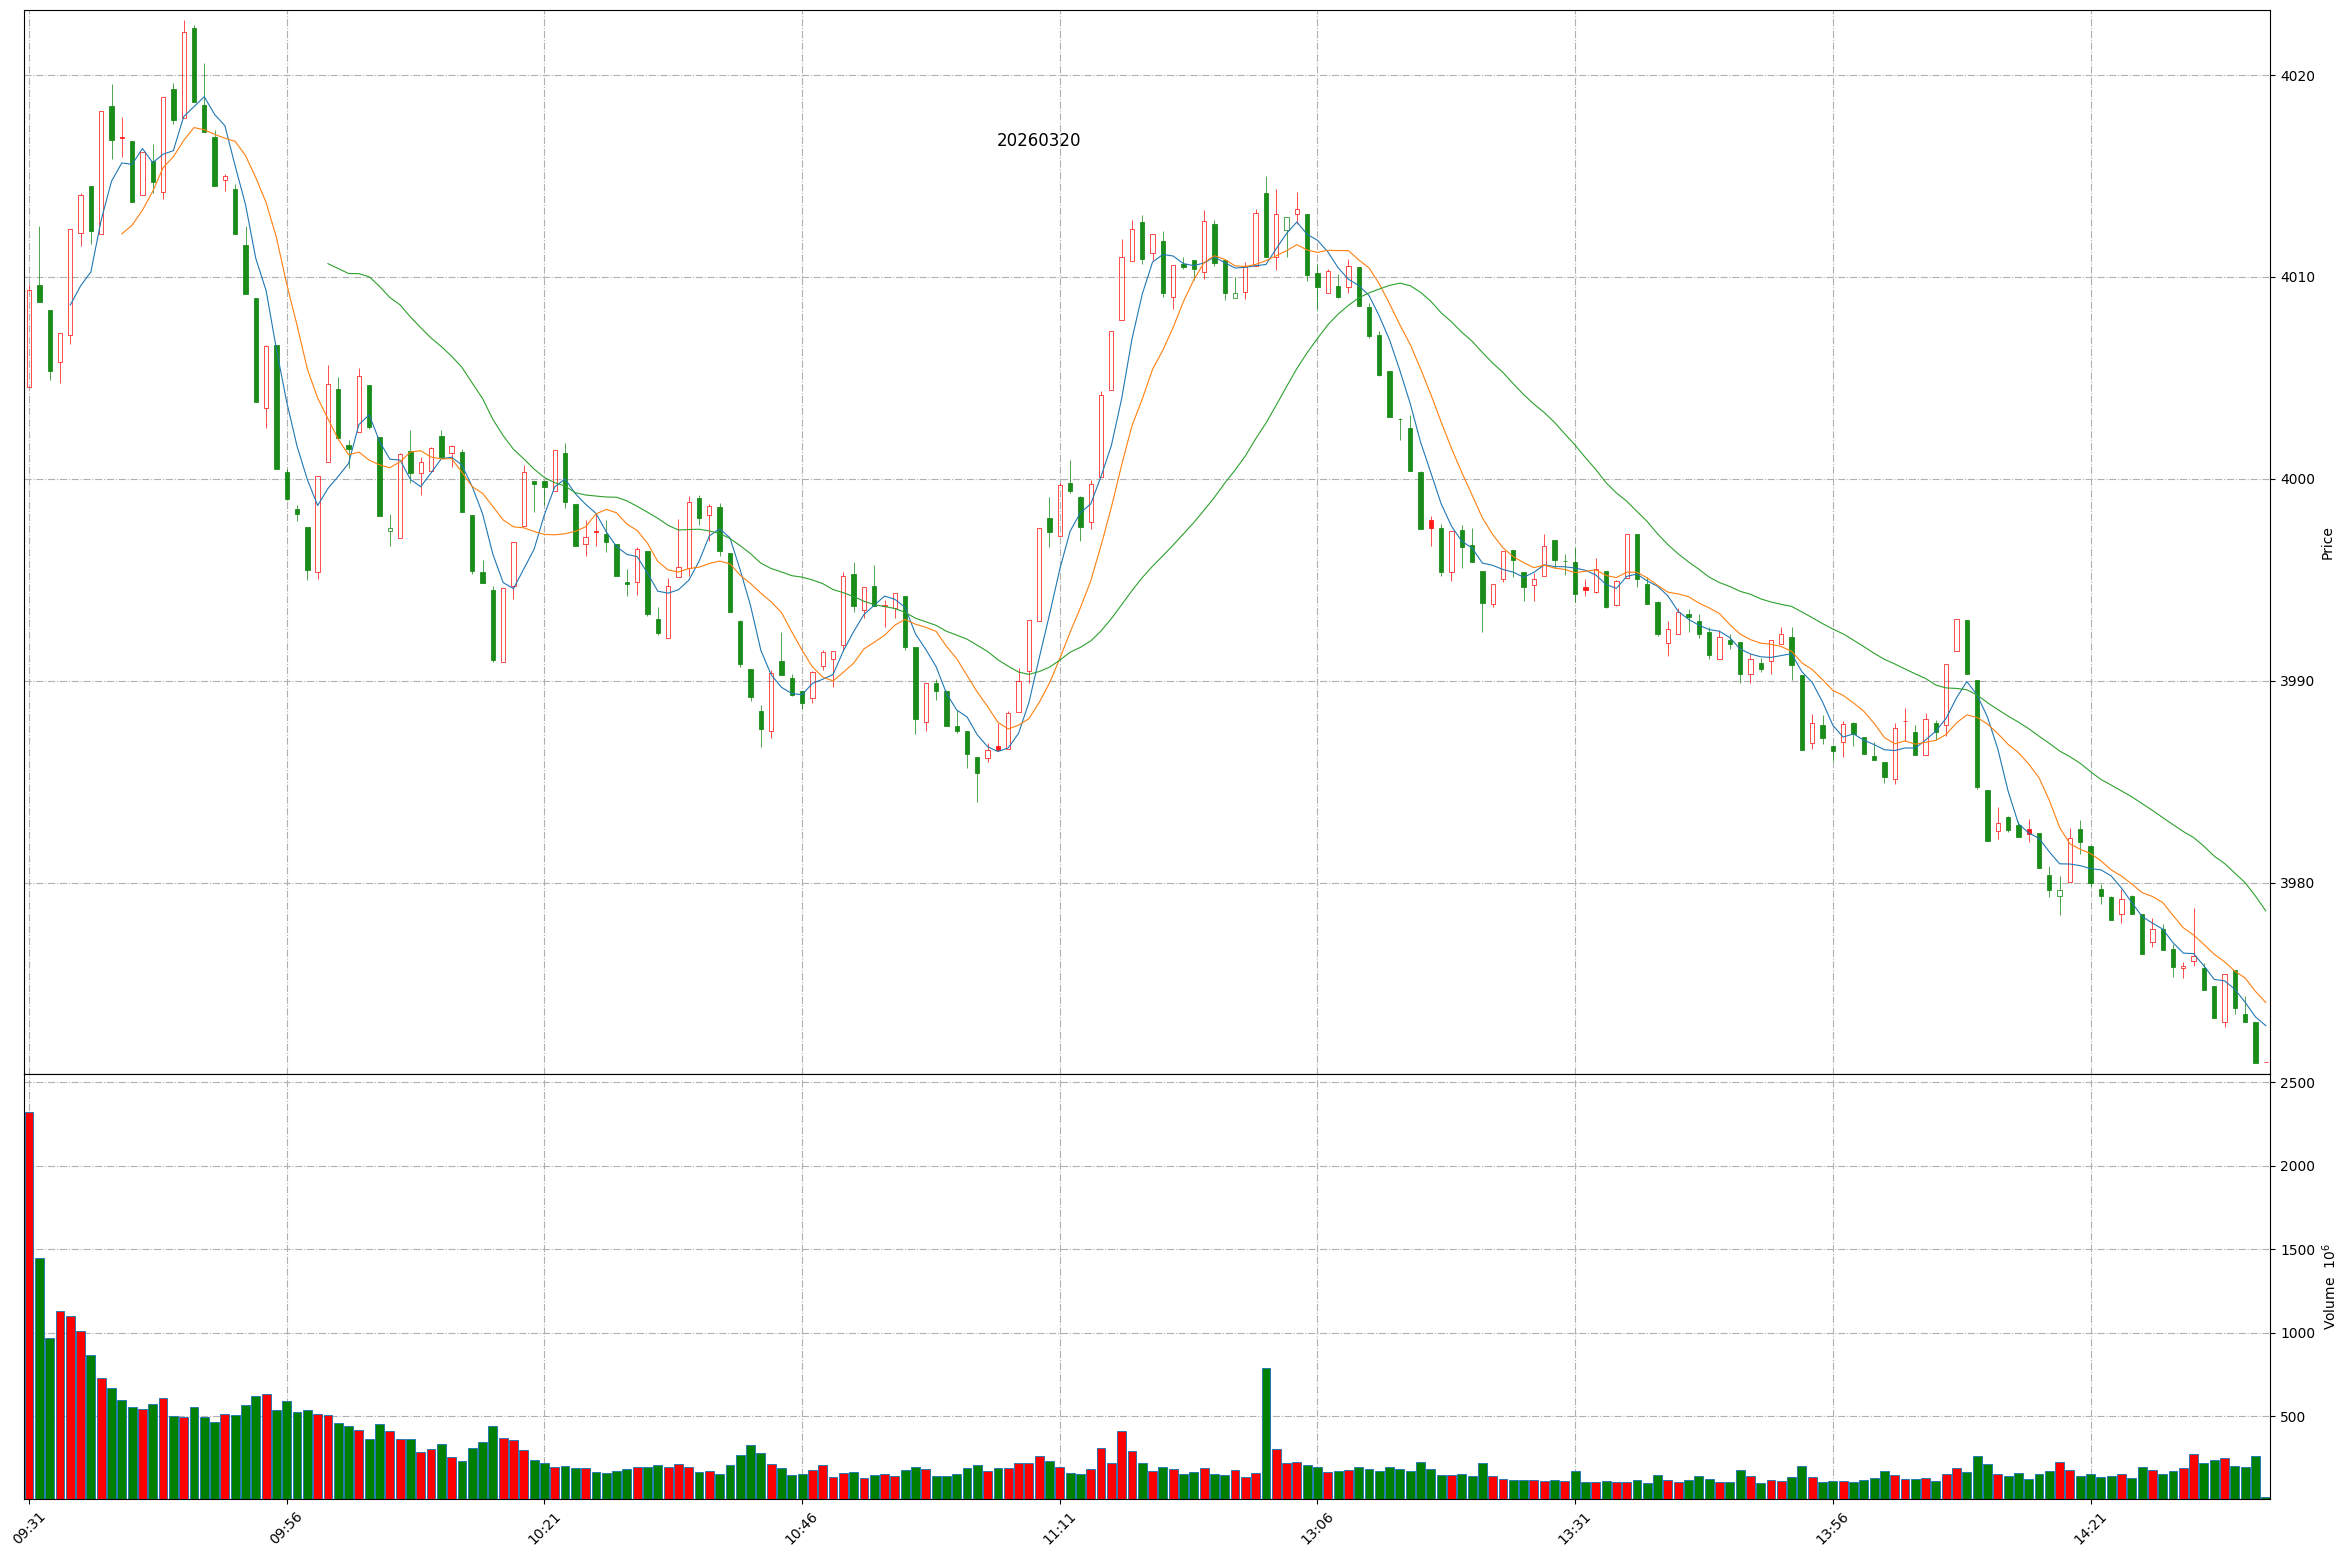
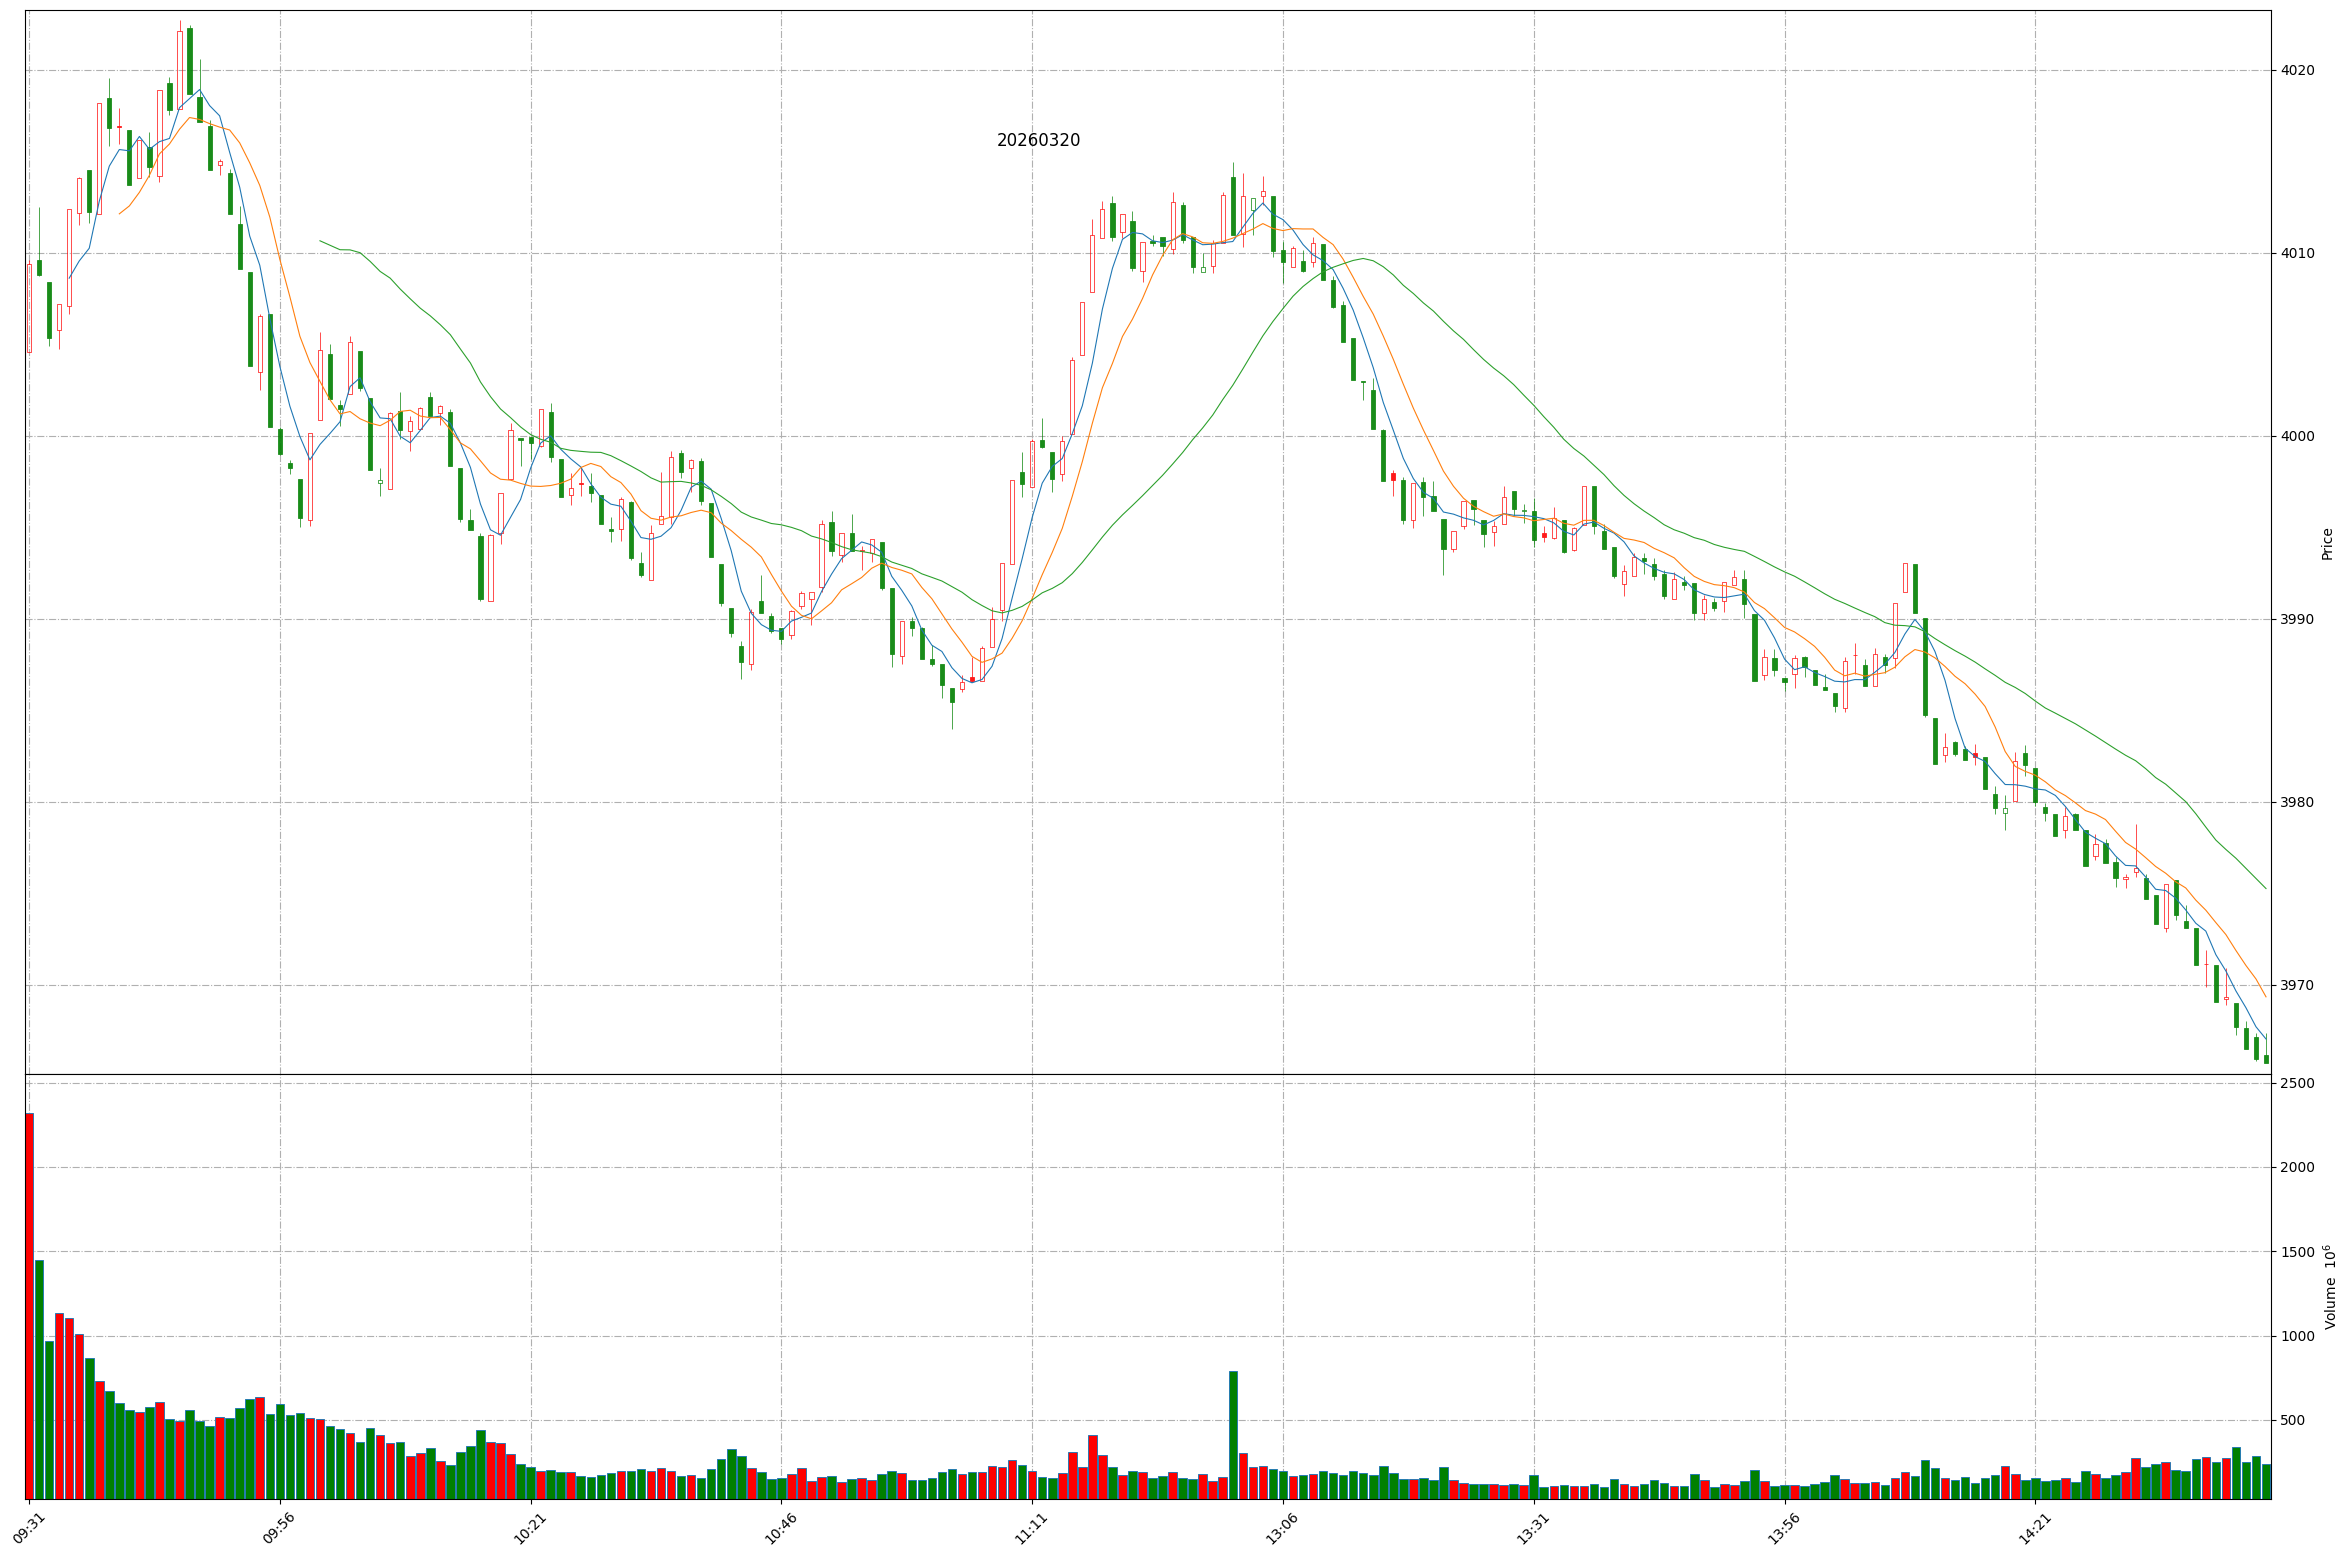
Github action update at 2026-03-20 14:44:19.

diff --git a/README.md b/README.md
@@ -1,11 +1,11 @@
 
 # Daily-A-share-market-quotes 每日 A 股指数（5min 更新）- 20260320
 
-### 上证指数 20260320 14:37
+### 上证指数 20260320 14:44
 ![](./fig/2026/3/20260320-sh000001.png)
 
-### 深证成指 20260320 14:37
+### 深证成指 20260320 14:44
 ![](./fig/2026/3/20260320-sz399001.png)
 
-### 北证50 20260320 14:37
+### 北证50 20260320 14:44
 ![](./fig/2026/3/20260320-bj899050.png)
